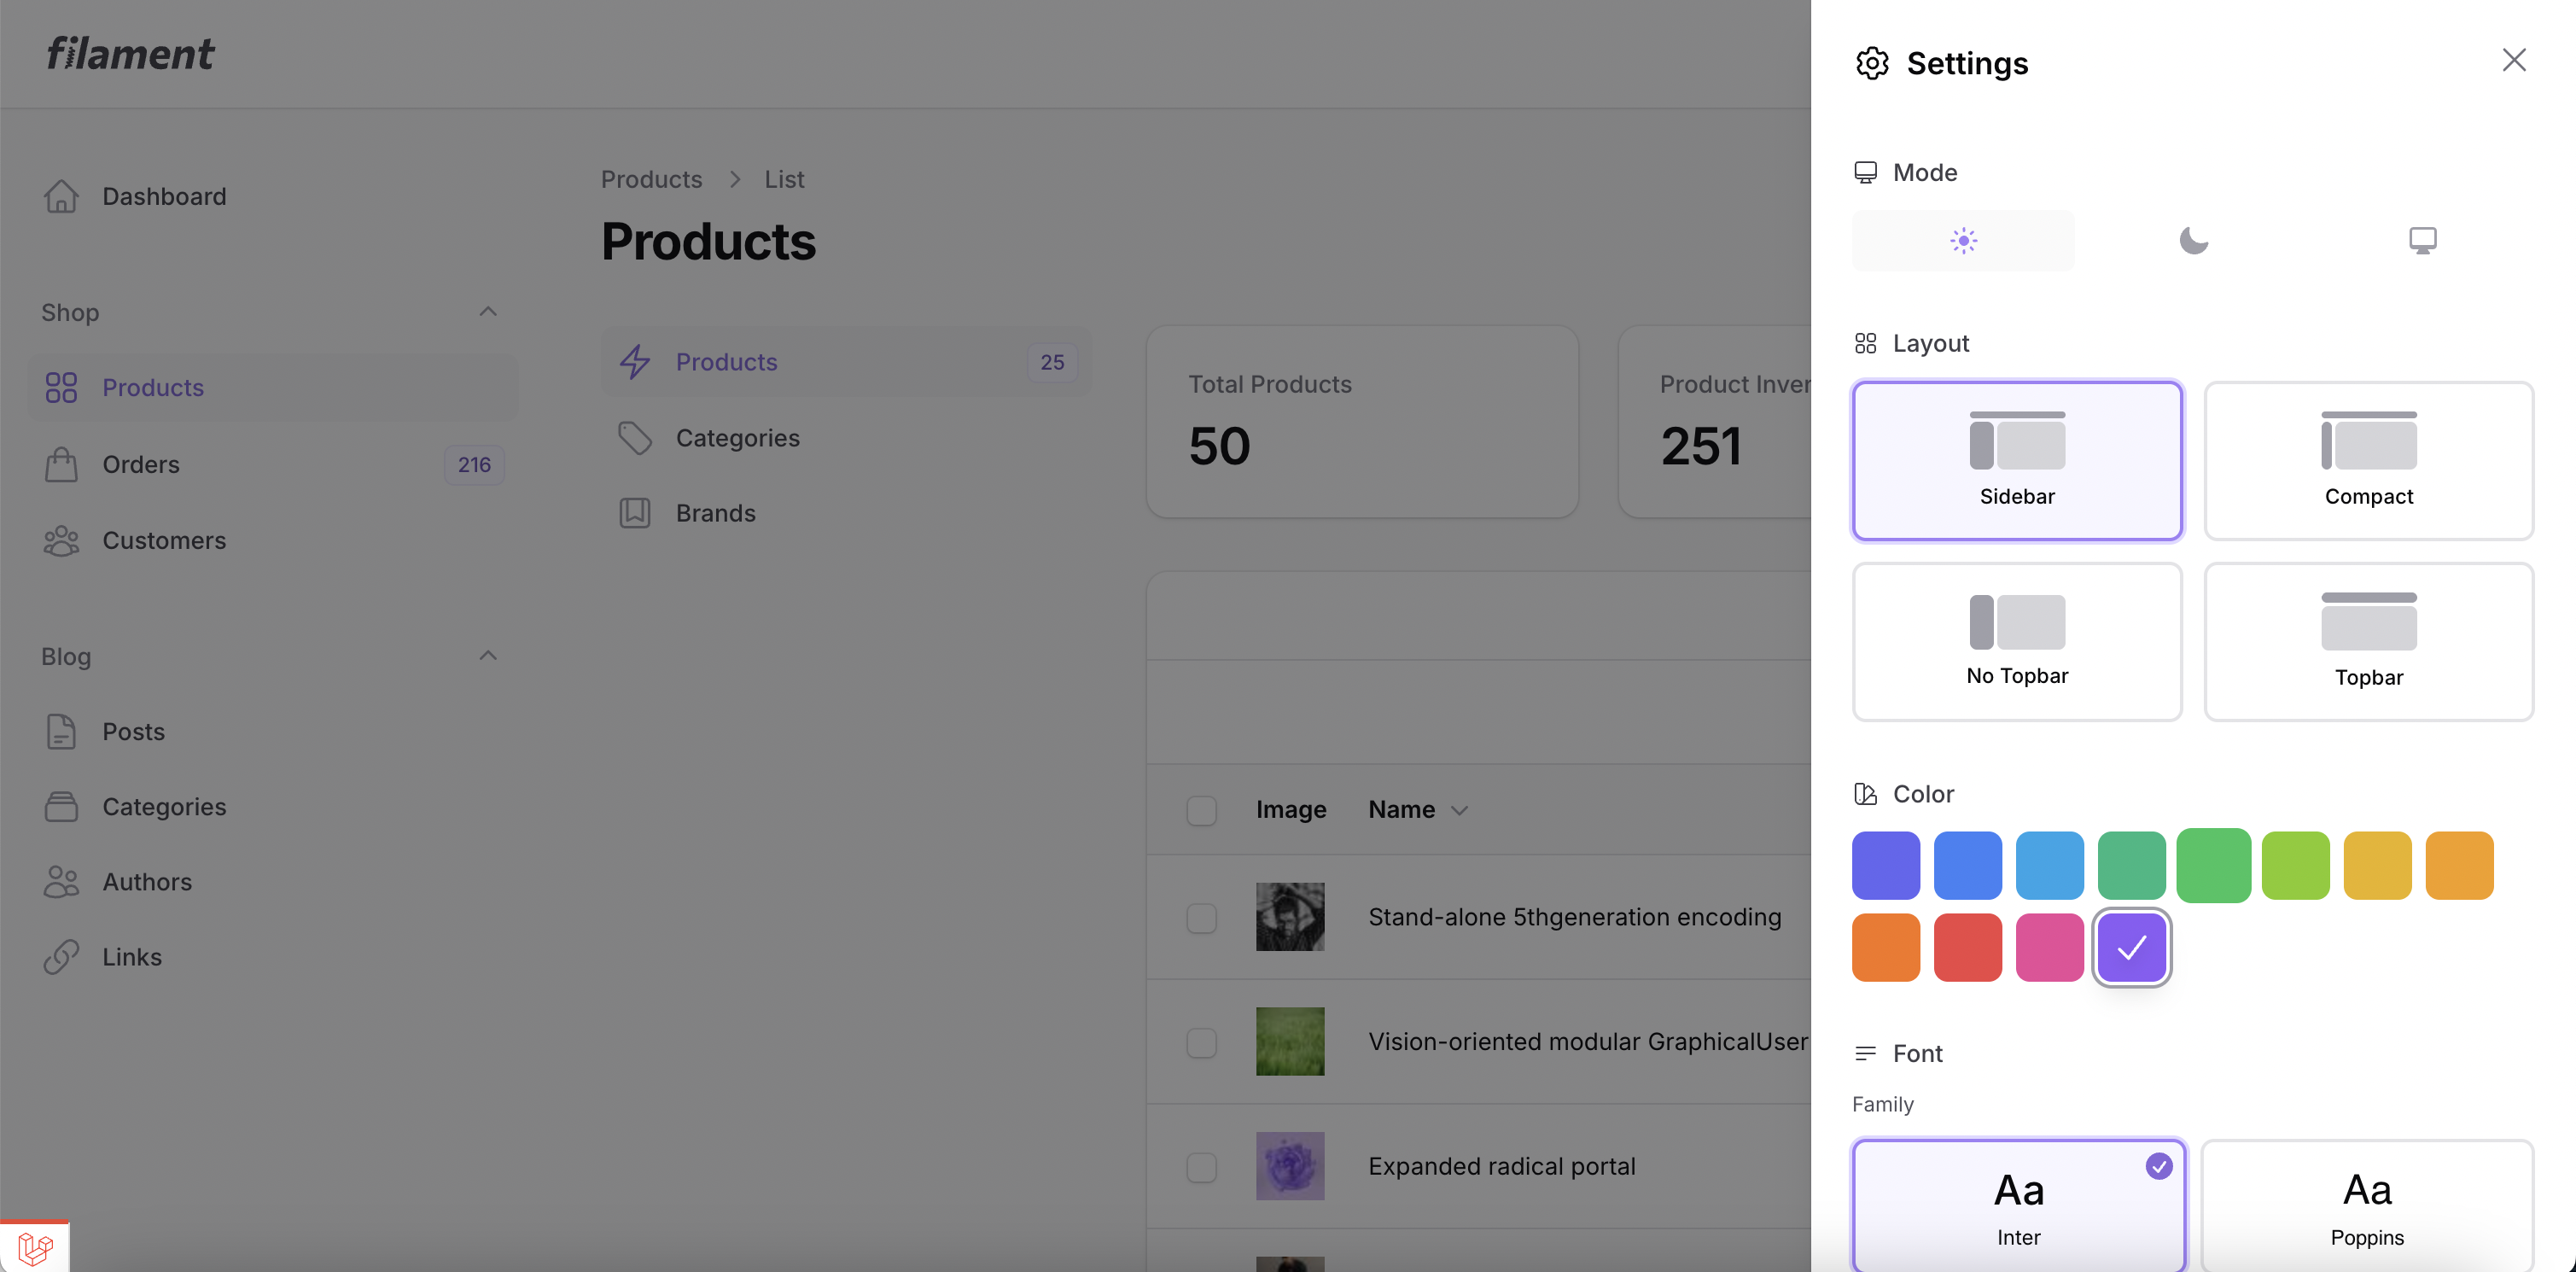
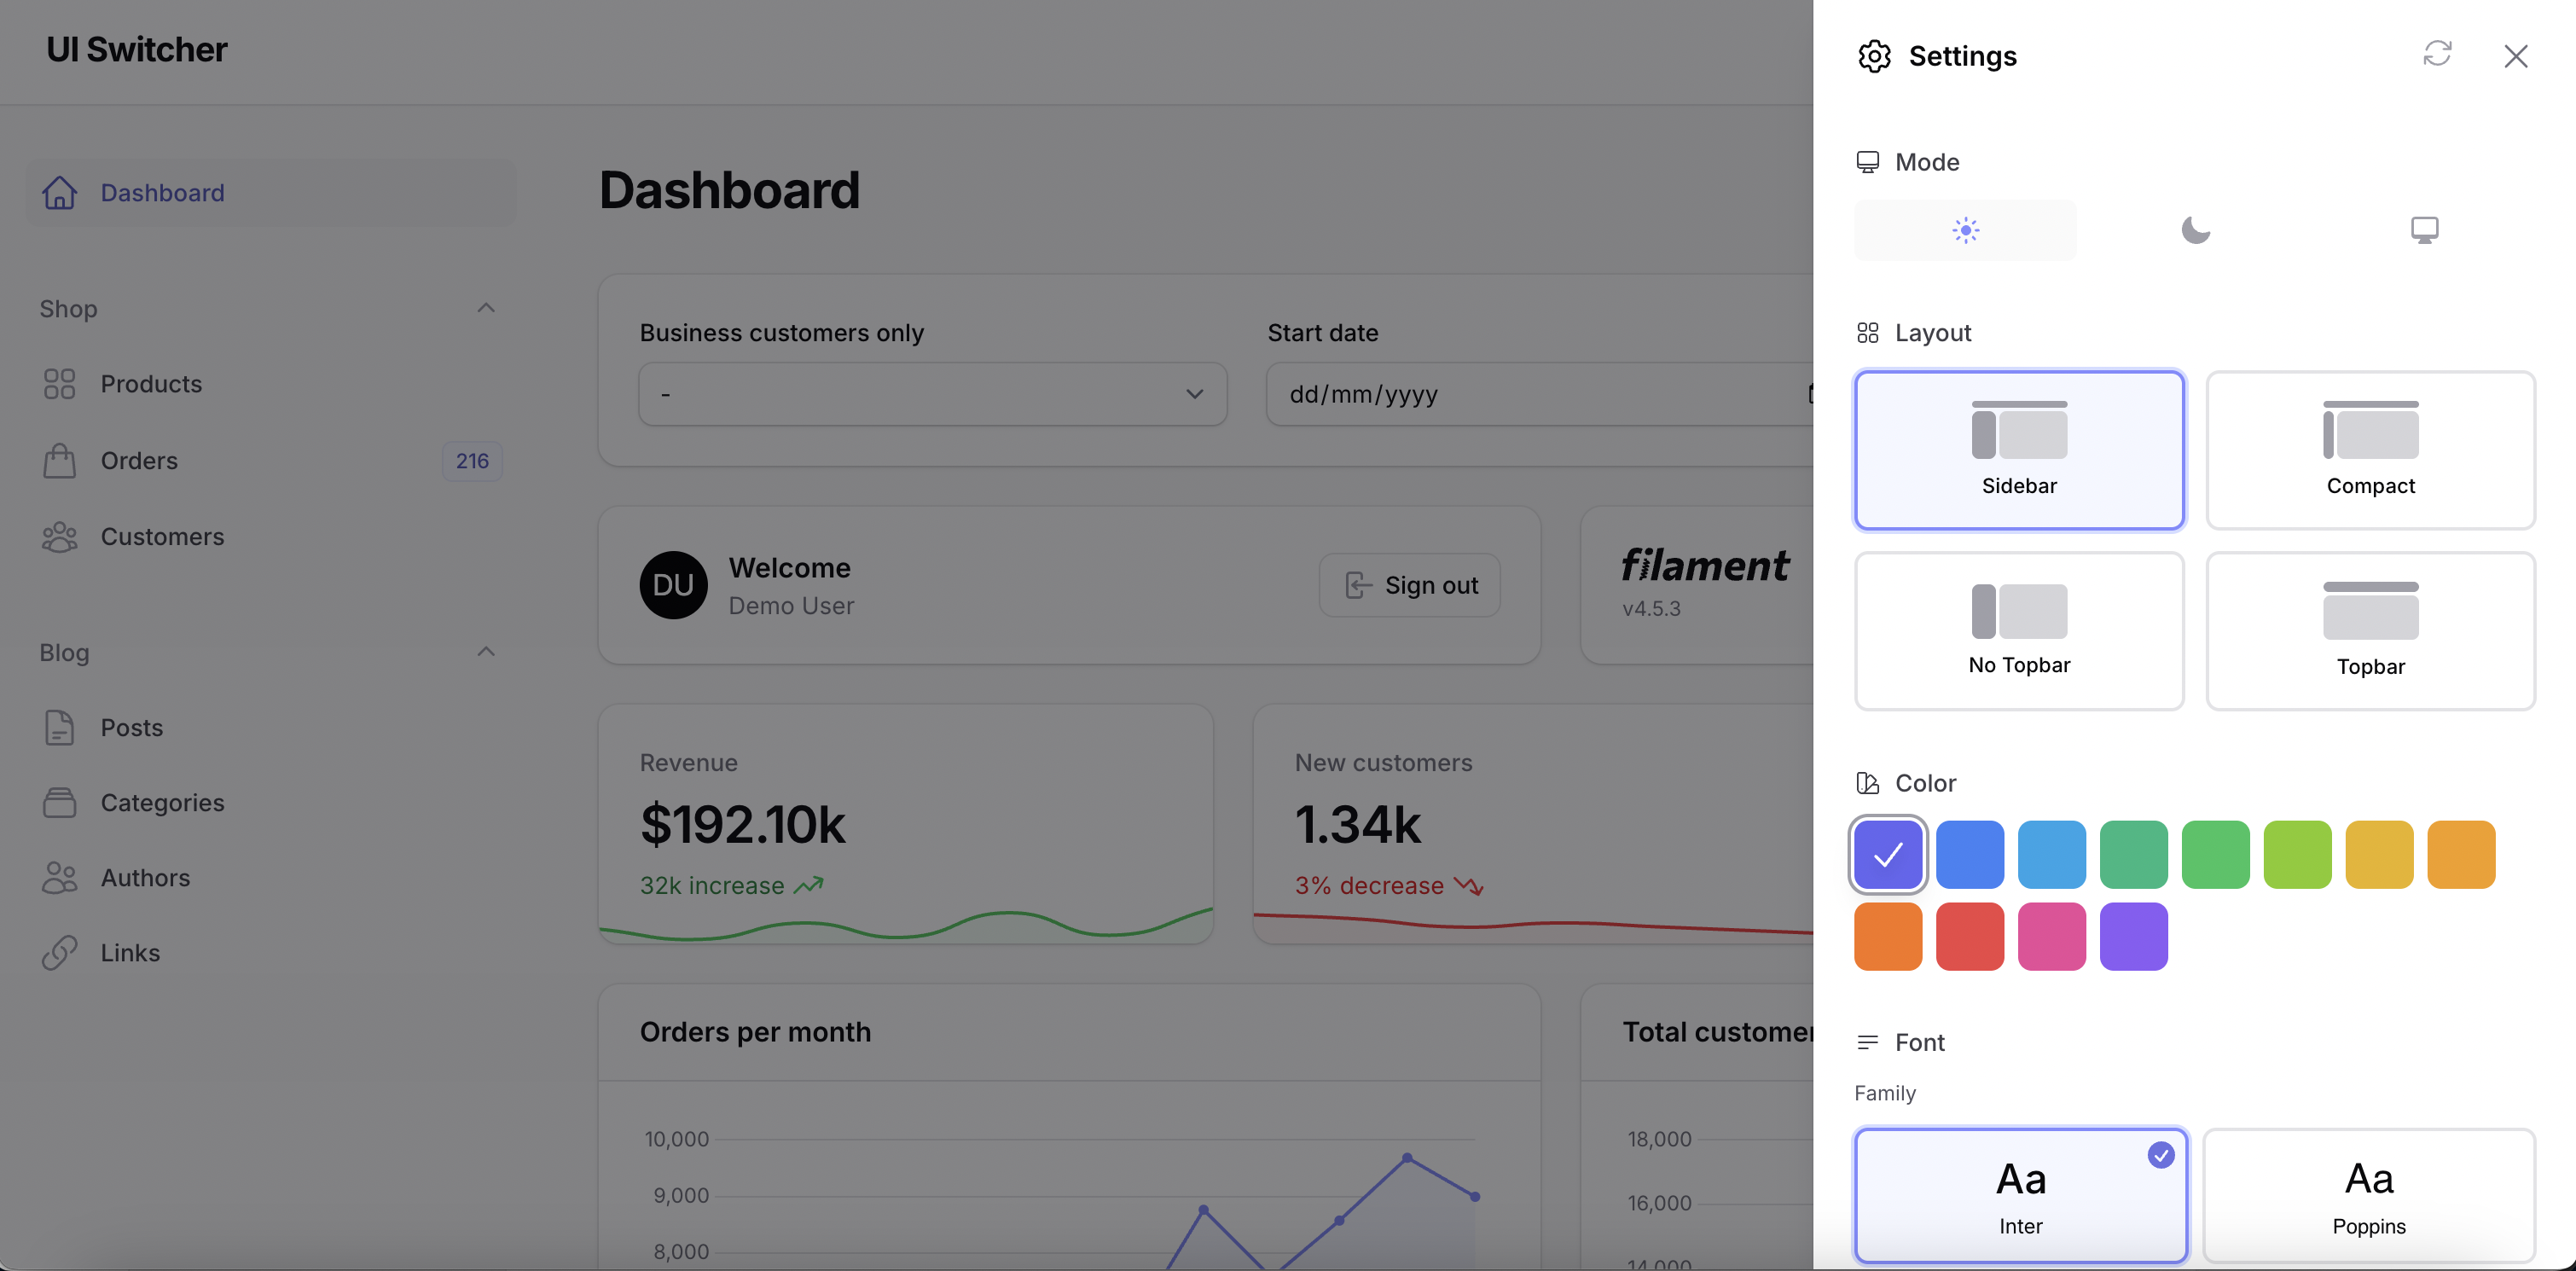
Merge pull request #6 from andreia/add_reset_all_feature
Add reset all feature

Pull request: Add reset all feature
Add a button to reset to default on header next to the close modal button.

Fix https://github.com/andreia/filament-ui-switcher/issues/3

<img width="458" height="441" alt="Screenshot 2026-01-18 at 13 24 35" src="https://github.com/user-attachments/assets/cfdb7021-bcc7-4fe7-975d-cc542fd7a74d" />

diff --git a/resources/views/livewire/ui-switcher.blade.php b/resources/views/livewire/ui-switcher.blade.php
@@ -9,7 +9,13 @@
             }, 400);
         }
      }"
-     x-on:reload-page.window="closeAndReload()">
+     x-on:reload-page.window="closeAndReload()"
+     x-on:reset-theme-to-default.window="
+        // Reset theme to system default
+        localStorage.removeItem('theme');
+        // Dispatch theme-changed event to update the UI
+        window.dispatchEvent(new CustomEvent('theme-changed', { detail: 'system' }));
+     ">
 
     {{-- Cog icon in topbar --}}
     <button
@@ -34,13 +40,35 @@
         x-on:close-modal.window="if ($event.detail.id === 'ui-switcher-modal') { $wire.set('open', false) }"
         x-on:modal-closed.window="if ($event.detail.id === 'ui-switcher-modal') { $wire.set('open', false) }"
     >
-        <x-slot name="heading">
+        <x-slot name="header">
+            {{-- Reset Button --}}
+            <button
+                wire:click="resetToDefaults"
+                wire:loading.class="opacity-50 cursor-wait"
+                wire:target="resetToDefaults"
+                type="button"
+                class="fi-icon-btn absolute end-[4.5rem] top-6 flex items-center justify-center text-gray-400 hover:text-gray-500 focus:outline-none dark:text-gray-500 dark:hover:text-gray-400 transition"
+                x-tooltip="{
+                    content: '{{ __('filament-ui-switcher::filament-ui-switcher.reset.button') }}',
+                    theme: $store.theme,
+                }"
+                aria-label="{{ __('filament-ui-switcher::filament-ui-switcher.reset.aria_label') }}"
+            >
+                <x-filament::icon
+                    icon="heroicon-o-arrow-path"
+                    class="h-5 w-5"
+                />
+            </button>
+
+            {{-- Header content --}}
             <div class="flex items-center gap-2">
                 <x-filament::icon
                     icon="{{ $this->icon }}"
                     class="h-6 w-6"
                 />
-                <span class="text-lg font-semibold">{{ __('filament-ui-switcher::filament-ui-switcher.modal.heading') }}</span>
+                <h2 class="fi-modal-heading">
+                    {{ __('filament-ui-switcher::filament-ui-switcher.modal.heading') }}
+                </h2>
             </div>
         </x-slot>
 

diff --git a/src/Livewire/UiPreferences.php b/src/Livewire/UiPreferences.php
@@ -90,6 +90,33 @@ class UiPreferences extends Component
     }
 
     /**
+     * Reset all preferences to default values from config
+     */
+    public function resetToDefaults(): void
+    {
+        $defaults = config('ui-switcher.defaults', []);
+
+        // Reset to config defaults
+        $this->font = $defaults['font'] ?? 'Inter';
+        $this->layout = $defaults['layout'] ?? 'sidebar';
+        $this->primaryColor = $defaults['color'] ?? '#6366f1';
+        $this->fontSize = $defaults['font_size'] ?? 16;
+        $this->density = $defaults['density'] ?? 'default';
+
+        // Save all preferences
+        UiPreferenceManager::set('ui.font', $this->font);
+        UiPreferenceManager::set('ui.layout', $this->layout);
+        UiPreferenceManager::set('ui.color', $this->primaryColor);
+        UiPreferenceManager::set('ui.font_size', $this->fontSize);
+        UiPreferenceManager::set('ui.density', $this->density);
+
+        // Dispatch event to reset theme/mode in localStorage (handled by JavaScript)
+        $this->dispatch('reset-theme-to-default');
+
+        $this->dispatch('reload-page');
+    }
+
+    /**
      * Get available fonts from config
      */
     public function getAvailableFontsProperty(): array

diff --git a/resources/lang/en/filament-ui-switcher.php b/resources/lang/en/filament-ui-switcher.php
@@ -7,6 +7,10 @@ return [
 
     'loading.message' => 'Applying changes...',
 
+    'reset.button' => 'Reset all',
+    'reset.aria_label' => 'Reset all settings to default',
+    'reset.tooltip' => 'Reset all settings to default',
+
     'mode.heading' => 'Mode',
 
     'layout.heading' => 'Layout',

diff --git a/README.md b/README.md
@@ -15,6 +15,7 @@ Switch between the available Filament layouts with a customizable UI settings sl
 - **Font Size** - Adjust base font size (12-20px)
 - **Layout** - Switch between Sidebar, Compact Sidebar, and Topbar navigation
 - **Mode (optional)** - Display Filament's mode switcher (dark, light, and system)
+- **Reset All** - Quickly reset all customizations to default values with a single click
 
 **Storage Options:**
 - **Session Storage** (default) - Preferences stored in user session
@@ -200,6 +201,20 @@ That's it! A ⚙️ settings icon will now appear in your topbar.
 ![Filament UI Switcher Screenshot](https://raw.githubusercontent.com/andreia/filament-ui-switcher/main/docs/screenshot.png)
 
 ![Filament UI Switcher Modal](https://raw.githubusercontent.com/andreia/filament-ui-switcher/main/docs/ui_switcher_modal.jpg)
+
+## Usage
+
+### Resetting Preferences
+
+The settings modal includes a reset button in the header that allows users to quickly restore all customizations to their default values. When clicked, it will reset:
+
+- Primary color
+- Font family
+- Font size  
+- Layout
+- Mode (dark/light/system)
+
+All preferences will be restored to the values defined in your `config/ui-switcher.php` file under the `defaults` key.
 
 ## Configuration
 